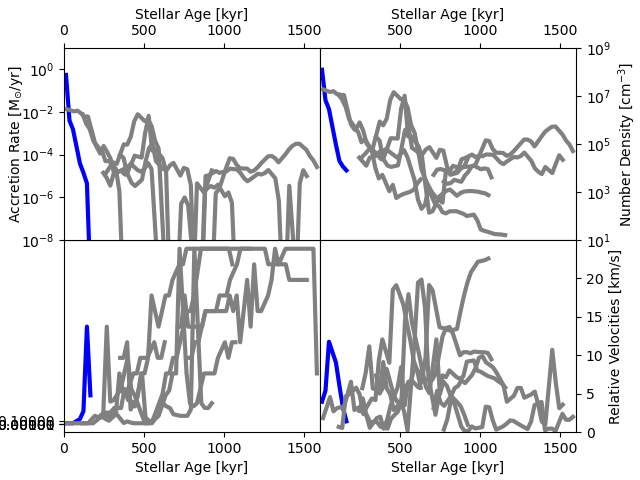
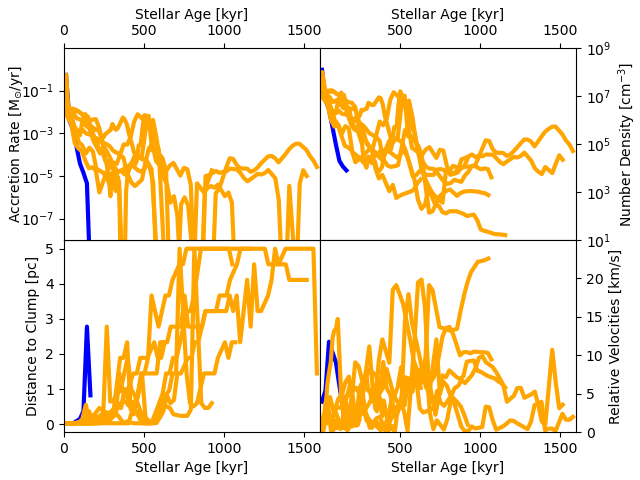
updated Figure 10

diff --git a/MassiveStars.tex b/MassiveStars.tex
@@ -996,13 +996,24 @@ well-known that low resolution damps turbulent motion very significantly
 \citep[e.g.][]{Federrath_2010a, Downes_2012}. Thus insufficient resolution
 will lead to an {\it over-estimate} of the likelihood of forming an SMS.
 
-%%%%%%%%%%%%%%%%%%%%%%%%%%%%%%FIGURE 11%%%%%%%%%%%%%%%%%%%%%%%%%%%%%%%%%%%%%%%%%%%%%%%%
+%%%%%%%%%%%%%%%%%%%%%%%%%%%%%%FIGURE 10%%%%%%%%%%%%%%%%%%%%%%%%%%%%%%%%%%%%%%%%%%%%%%%%
 \begin{figure*}
 \centering
 \begin{minipage}{175mm}      \begin{center}
 \centerline{
     \includegraphics[width=18.0cm, height=12cm]{FIGURES/MultiplicityPlots.pdf}}
-\caption{ }
+\caption{The evolution of the most massive star in \ha and seven other stars which
+  cross regions of high density during their evolution resulting in enhanced accretion rates.
+  The accretion rate for each star (most massive in blue, other stars in orange) is shown in the
+  top left panel. Each of the orange stars shows a second spike of $\dot{M} > 5 \times 10^-3$
+  \msolaryr during its evolution. For most stars this happens approximately 500 kyrs after
+  formation. This spike in accretion is caused by the star crossing a region of high density.
+  The gas number density surrounding each star is shown in the top right panel. The
+  relative velocity of the stars (which also impacts accretion) is shown in the bottom
+  right panel. Finally, in the bottom left panel we plot the distance from each star to the
+  nearest high density clump. As stars cross the inner halo their distances from a high density
+  clump vary between 0 and 5 pc. Note that for the most massive star, shown in blue, the stellar
+  age is quite short as this star formed near the end of the simulation.}
 \label{Fig:Clumps}
 \end{center} \end{minipage}
 \end{figure*}
